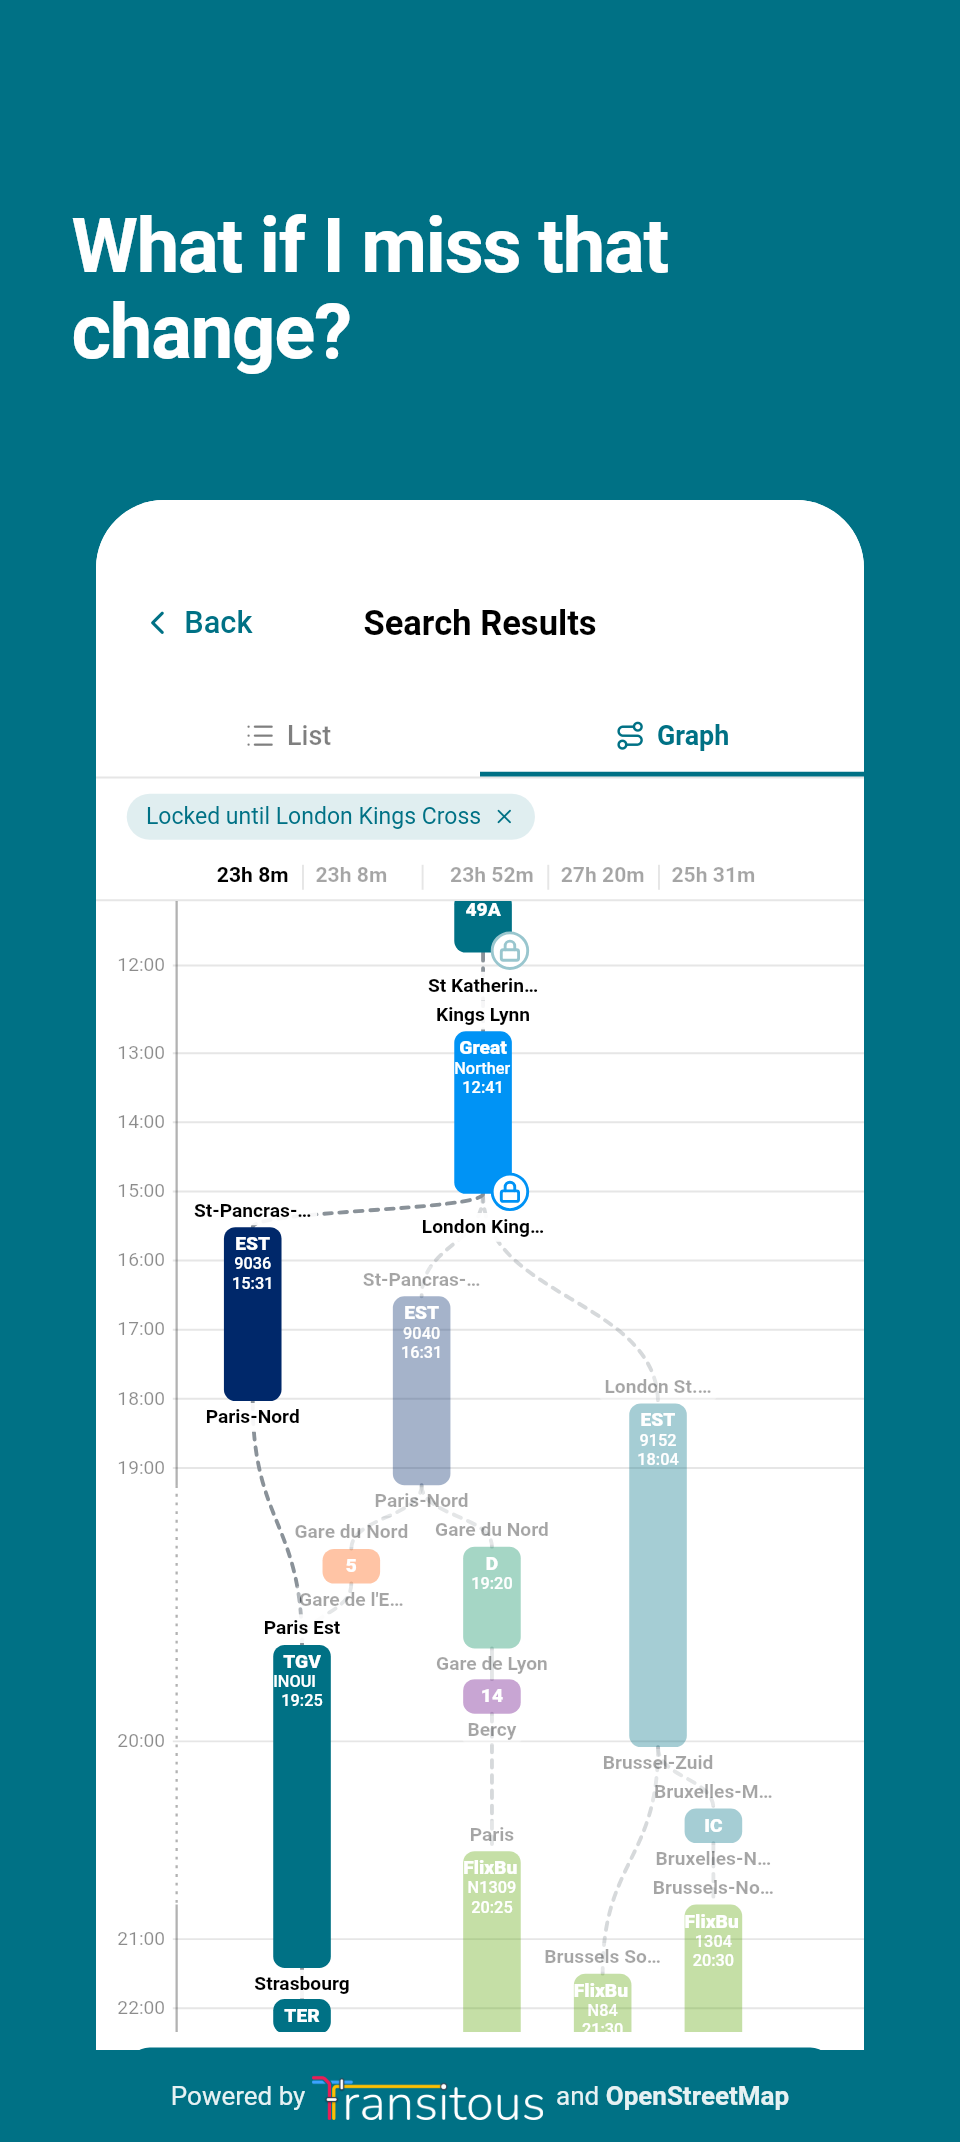
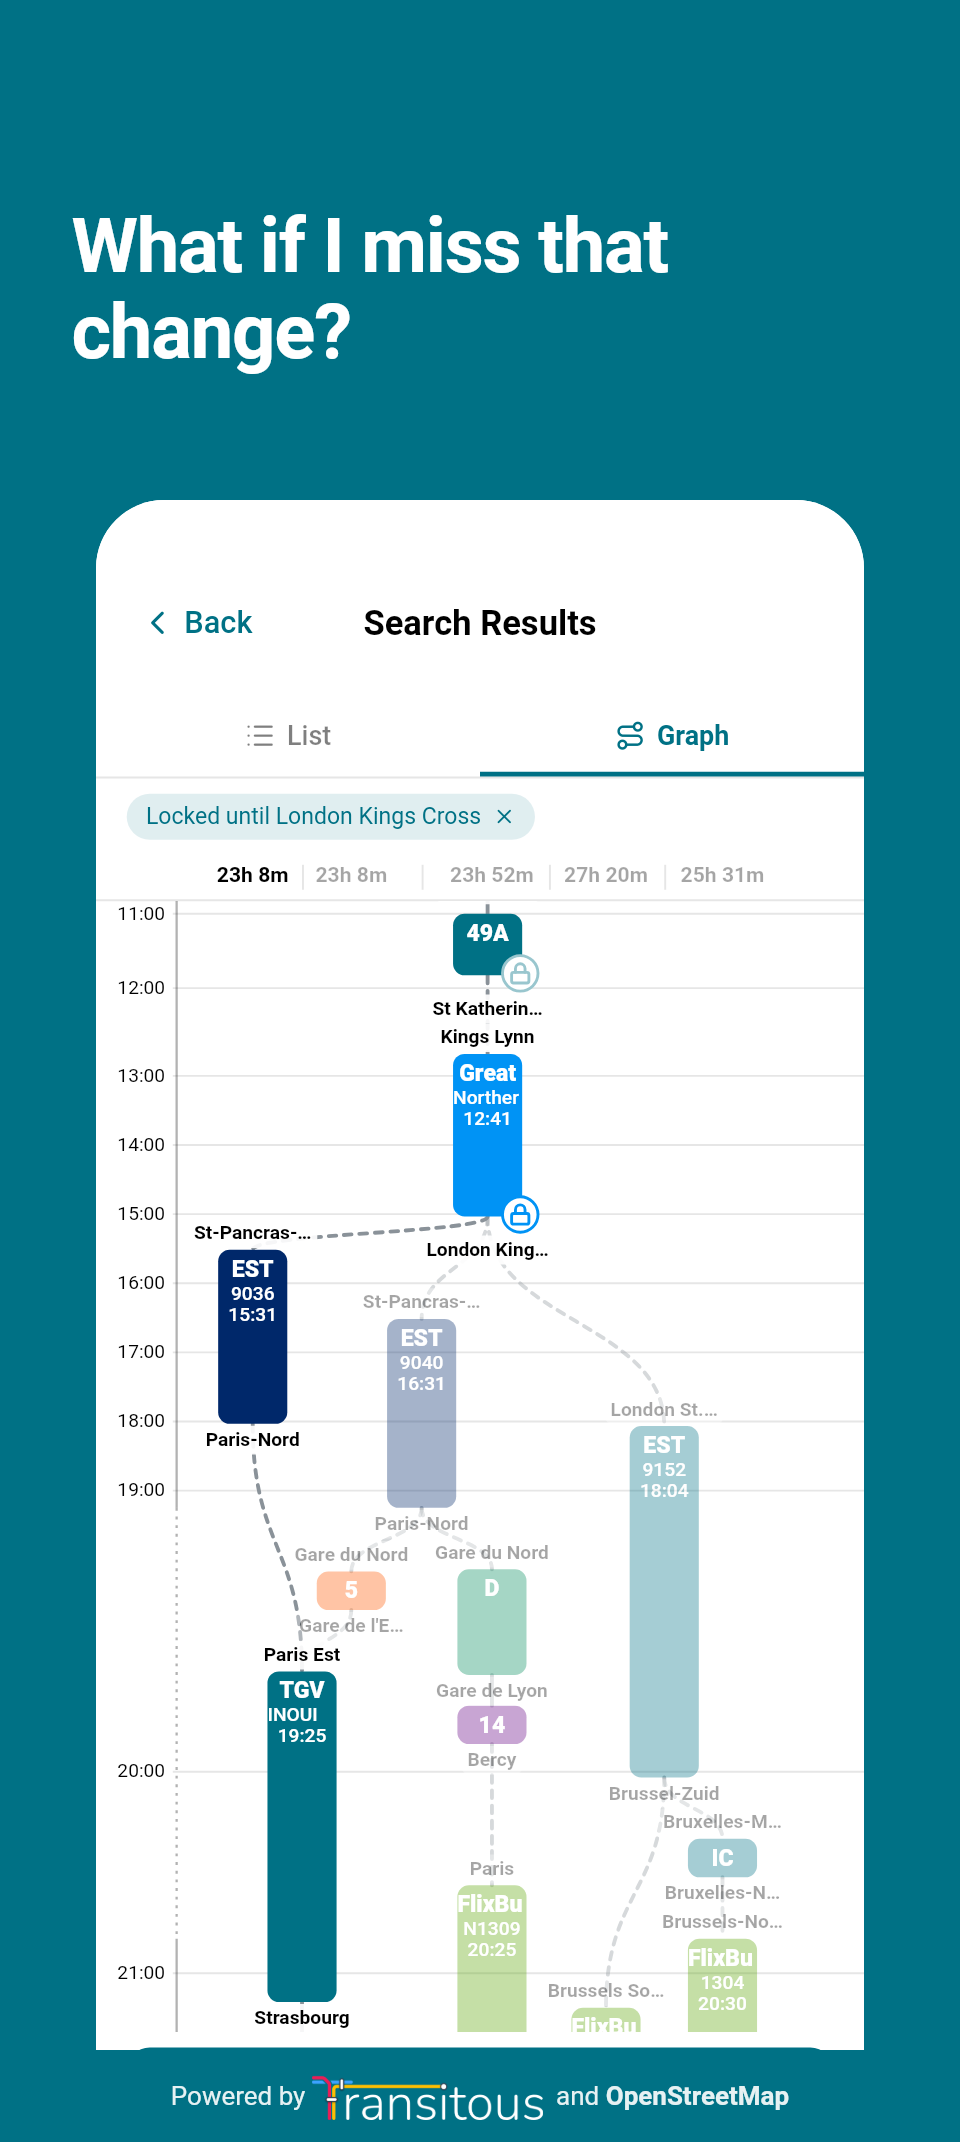
Larger text on the graph's rides, black times on its axis
Line names go from 10 to 12 px and numbers and times from 8.5 to 10 px,
on bars 36 px wide instead of 30, so fewer results fit across. The hour
labels on the axis are in the theme's text colour rather than faded.
Store image 3 is rendered again to match.

Claude-Session: https://claude.ai/code/session_01781m1BbkUBuUdLbbjJp3tg

diff --git a/lib/widgets/journey/journey_graph_view.dart b/lib/widgets/journey/journey_graph_view.dart
@@ -15,7 +15,7 @@ import '../../utils/time_utils.dart';
 /// Room left of the first column for the hour labels.
 const double _kAxisWidth = 44;
 
-const double _kBarWidth = 30;
+const double _kBarWidth = 36;
 const double _kBarRadius = 6;
 
 /// Station names are cut to this many characters, so the widest label is
@@ -721,10 +721,10 @@ class _RideBar extends StatelessWidget {
       height: 1.15,
     );
     return [
-      (line, style(10, FontWeight.w800)),
-      if (number != null && height > 36) (number, style(8.5, FontWeight.w500)),
-      if (height > 50)
-        (formatTime(ride.leg.startTime), style(8.5, FontWeight.w500)),
+      (line, style(12, FontWeight.w800)),
+      if (number != null && height > 40) (number, style(10, FontWeight.w500)),
+      if (height > 58)
+        (formatTime(ride.leg.startTime), style(10, FontWeight.w500)),
     ];
   }
 
@@ -838,7 +838,7 @@ const double _kImplicitLockOpacity = 0.4;
 
 /// A locked bar is at least this tall, so the badge on its bottom corner
 /// stays clear of the name at its top.
-const double _kLockedRideHeight = 28;
+const double _kLockedRideHeight = 32;
 
 /// A circle on the bottom right corner of a locked bar, outlined in the
 /// bar's colour with the lock in the same line. A lock that follows from a
@@ -1022,10 +1022,7 @@ class _GraphPainter extends CustomPainter {
         final label = TextPainter(
           text: TextSpan(
             text: formatTime(tick),
-            style: textStyle.copyWith(
-              fontSize: 10,
-              color: AppColors.black.withValues(alpha: 0.45),
-            ),
+            style: textStyle.copyWith(fontSize: 10, color: AppColors.black),
           ),
           textDirection: TextDirection.ltr,
         )..layout();

diff --git a/lib/utils/journey_graph.dart b/lib/utils/journey_graph.dart
@@ -3,7 +3,7 @@ import 'dart:math' as math;
 import '../models/itinerary.dart';
 
 /// The shortest a ride is drawn, whatever the zoom: room for its line name.
-const double _kMinRideHeight = 18;
+const double _kMinRideHeight = 20;
 
 /// The least room between getting off and getting on again in one column:
 /// room for the station name hung under the first ride.

diff --git a/test/utils/journey_graph_test.dart b/test/utils/journey_graph_test.dart
@@ -146,7 +146,7 @@ void main() {
       for (final ride in graph.rides) {
         final height =
             scale.yOf(ride.leg.endTime) - scale.yOf(ride.leg.startTime);
-        expect(height, greaterThanOrEqualTo(18 - 1e-9));
+        expect(height, greaterThanOrEqualTo(20 - 1e-9));
       }
     });
 
